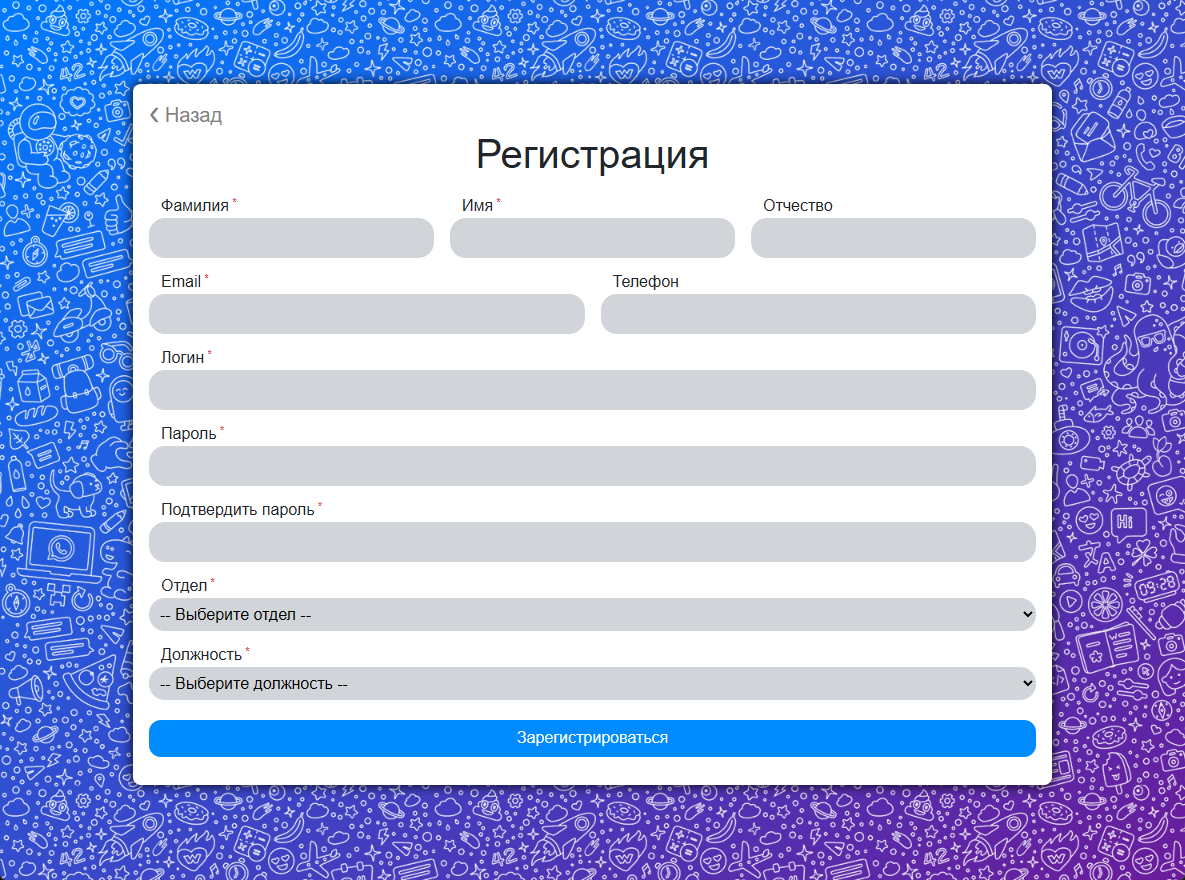
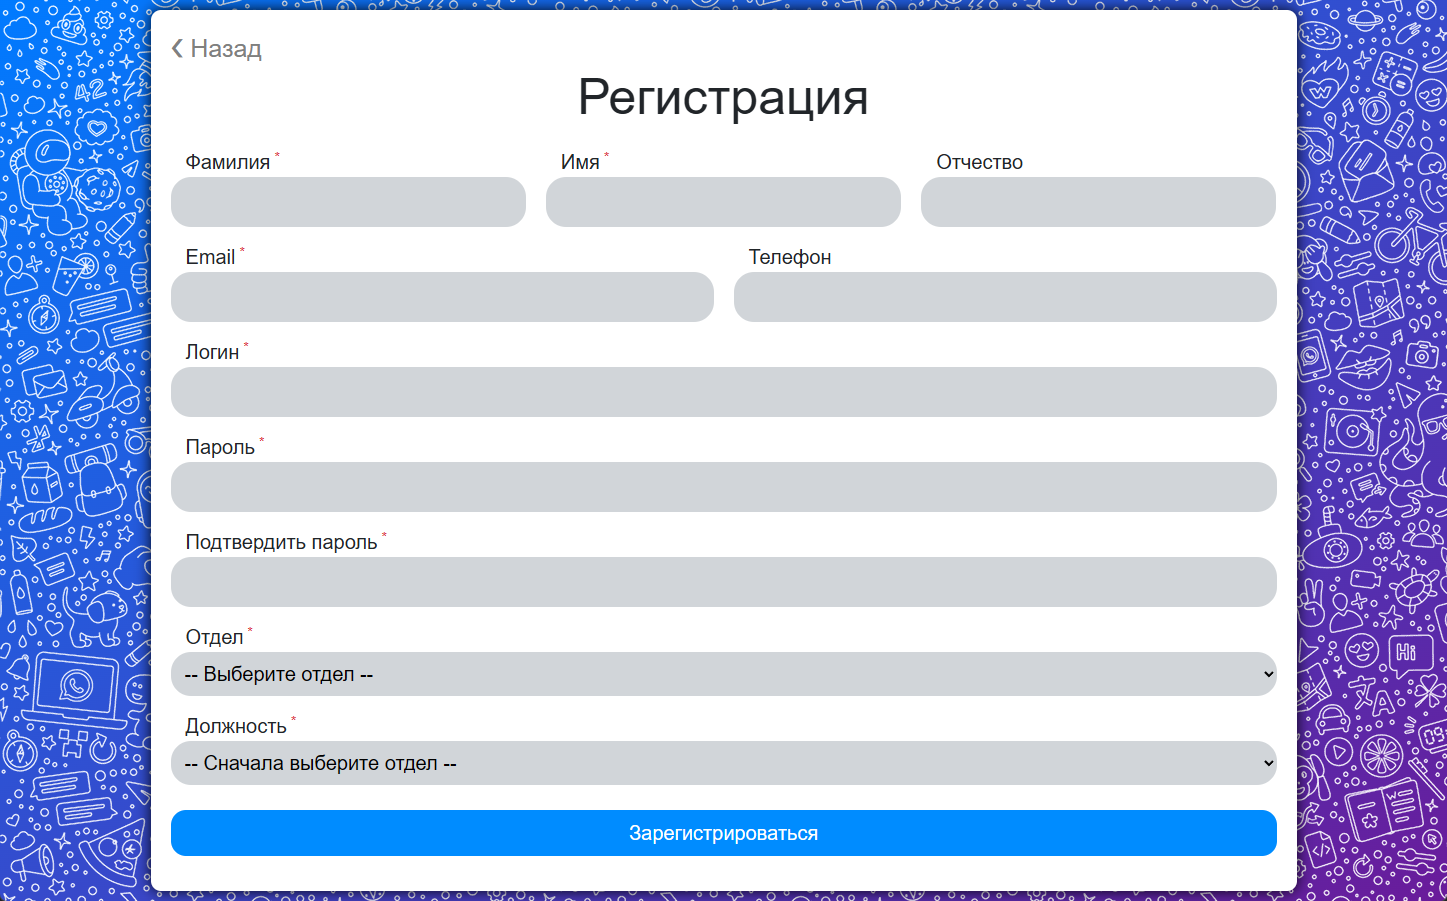
Added the ability to select a position depending on the department

diff --git a/CorpNetMessenger/wwwroot/js/auth/register.js b/CorpNetMessenger/wwwroot/js/auth/register.js
@@ -1,0 +1,28 @@
+document.addEventListener("DOMContentLoaded", function () {
+    const departmentSelect = document.getElementById("departmentSelect");
+    const postSelect = document.getElementById("postSelect");
+
+    departmentSelect.addEventListener("change", async function () {
+        const departmentId = this.value;
+
+        postSelect.innerHTML = '<option value="">-- Выберите должность --</option>';
+
+        if (departmentId) {
+            try {
+                const response = await fetch(
+                    `/Auth/GetPostsByDepartment?departmentId=${departmentId}`
+                );
+                const posts = await response.json();
+
+                posts.forEach((post) => {
+                    const option = document.createElement("option");
+                    option.value = post.id;
+                    option.textContent = post.title;
+                    postSelect.appendChild(option);
+                });
+            } catch (error) {
+                console.error("Ошибка при загрузке должностей:", error);
+            }
+        }
+    });
+});

diff --git a/CorpNetMessenger/Infrastructure/Data/Migrations/MessengerContextModelSnapshot.cs b/CorpNetMessenger/Infrastructure/Data/Migrations/MessengerContextModelSnapshot.cs
@@ -52,7 +52,7 @@ namespace CorpNetMessenger.Infrastructure.Data.Migrations
 
                     b.HasIndex("MessageId");
 
-                    b.ToTable("Attachments");
+                    b.ToTable("Attachments", (string)null);
                 });
 
             modelBuilder.Entity("CorpNetMessenger.Domain.Entities.Chat", b =>
@@ -71,7 +71,7 @@ namespace CorpNetMessenger.Infrastructure.Data.Migrations
 
                     b.HasIndex("DepartmentId");
 
-                    b.ToTable("Chats");
+                    b.ToTable("Chats", (string)null);
                 });
 
             modelBuilder.Entity("CorpNetMessenger.Domain.Entities.ChatUser", b =>
@@ -92,7 +92,7 @@ namespace CorpNetMessenger.Infrastructure.Data.Migrations
 
                     b.HasIndex("ChatId");
 
-                    b.ToTable("ChatUsers");
+                    b.ToTable("ChatUsers", (string)null);
                 });
 
             modelBuilder.Entity("CorpNetMessenger.Domain.Entities.Department", b =>
@@ -110,7 +110,7 @@ namespace CorpNetMessenger.Infrastructure.Data.Migrations
 
                     b.HasKey("Id");
 
-                    b.ToTable("Departments");
+                    b.ToTable("Departments", (string)null);
                 });
 
             modelBuilder.Entity("CorpNetMessenger.Domain.Entities.DepartmentPost", b =>
@@ -125,7 +125,7 @@ namespace CorpNetMessenger.Infrastructure.Data.Migrations
 
                     b.HasIndex("PostId");
 
-                    b.ToTable("DepartmentPost");
+                    b.ToTable("DepartmentPost", (string)null);
                 });
 
             modelBuilder.Entity("CorpNetMessenger.Domain.Entities.Message", b =>
@@ -155,7 +155,7 @@ namespace CorpNetMessenger.Infrastructure.Data.Migrations
 
                     b.HasIndex("UserId");
 
-                    b.ToTable("Messages");
+                    b.ToTable("Messages", (string)null);
                 });
 
             modelBuilder.Entity("CorpNetMessenger.Domain.Entities.MessageUser", b =>
@@ -178,7 +178,7 @@ namespace CorpNetMessenger.Infrastructure.Data.Migrations
 
                     b.HasIndex("UserId1");
 
-                    b.ToTable("MessageUsers");
+                    b.ToTable("MessageUsers", (string)null);
                 });
 
             modelBuilder.Entity("CorpNetMessenger.Domain.Entities.Post", b =>
@@ -196,7 +196,7 @@ namespace CorpNetMessenger.Infrastructure.Data.Migrations
 
                     b.HasKey("Id");
 
-                    b.ToTable("Posts");
+                    b.ToTable("Posts", (string)null);
                 });
 
             modelBuilder.Entity("CorpNetMessenger.Domain.Entities.Status", b =>
@@ -214,7 +214,7 @@ namespace CorpNetMessenger.Infrastructure.Data.Migrations
 
                     b.HasKey("Id");
 
-                    b.ToTable("Statuses");
+                    b.ToTable("Statuses", (string)null);
                 });
 
             modelBuilder.Entity("CorpNetMessenger.Domain.Entities.User", b =>

diff --git a/CorpNetMessenger/Web/Controllers/AuthController.cs b/CorpNetMessenger/Web/Controllers/AuthController.cs
@@ -103,28 +103,31 @@ namespace CorpNetMessenger.Web.Controllers
             return RedirectToAction("Index", "Home");
         }
 
+        [HttpGet]
+        public async Task<IActionResult> GetPostsByDepartment(int departmentId)
+        {
+            var posts = await _cache.GetOrCreateAsync($"posts_by_{departmentId}", async entry =>
+            {
+                entry.AbsoluteExpiration = DateTime.Now.AddHours(6);
+                var posts = await _unitOfWork.Posts.GetByDepartmentIdAsync(departmentId);
+                return posts.Select(p => new { Id = p.Post.Id, Title = p.Post.Title});
+            });
+            return Json(posts);
+        }
+
         private async Task LoadSelectLists()
         {
-            var departments = await _cache.GetOrCreateAsync("departments", async entry => {
+            var departments = await _cache.GetOrCreateAsync("departments", async entry =>
+            {
                 entry.AbsoluteExpiration = DateTime.Now.AddHours(6);
-                return await _unitOfWork.Departments.GetAllAsync();
-            });
-
-            var posts = await _cache.GetOrCreateAsync("posts", async entry => {
-                entry.AbsoluteExpiration = DateTime.Now.AddHours(6);
-                return await _unitOfWork.Posts.GetAllAsync();
+                var departments = await _unitOfWork.Departments.GetAllAsync();
+                return departments.Select(d => new { Id = d.Id.ToString(), Title = d.Title });
             });
 
             ViewBag.Departments = departments.Select(d => new SelectListItem
             {
-                Value = d.Id.ToString(),
+                Value = d.Id,
                 Text = d.Title
-            }).ToList();
-
-            ViewBag.Posts = posts.Select(p => new SelectListItem
-            {
-                Value = p.Id.ToString(),
-                Text = p.Title
             }).ToList();
         }
 

diff --git a/CorpNetMessenger/Infrastructure/Repositories/UnitOfWork.cs b/CorpNetMessenger/Infrastructure/Repositories/UnitOfWork.cs
@@ -12,7 +12,7 @@ namespace CorpNetMessenger.Infrastructure.Repositories
         private IRepository<Department> _departments;
         private IRepository<Attachment> _files;
         private IMessageRepository _messages;
-        private IRepository<Post> _posts;
+        private IPostRepository _posts;
         private IRepository<Status> _statuses;
         private IUserRepository _users;
         private IChatUserRepository _chatUsers;
@@ -26,7 +26,7 @@ namespace CorpNetMessenger.Infrastructure.Repositories
         public IRepository<Department> Departments => _departments ??= new DepartmentRepository(_context);
         public IRepository<Attachment> Files => _files ??= new AttachmentRepository(_context);
         public IMessageRepository Messages => _messages ??= new MessageRepository(_context);
-        public IRepository<Post> Posts => _posts ??= new PostRepository(_context);
+        public IPostRepository Posts => _posts ??= new PostRepository(_context);
         public IRepository<Status> Statuses => _statuses ??= new StatusRepository(_context);
         public IUserRepository Users => _users ??= new UserRepository(_context);
         public IChatUserRepository ChatUsers => _chatUsers ??= new ChatUserRepository(_context);

diff --git a/CorpNetMessenger/Infrastructure/Repositories/PostRepository.cs b/CorpNetMessenger/Infrastructure/Repositories/PostRepository.cs
@@ -1,12 +1,22 @@
 using CorpNetMessenger.Domain.Entities;
+using CorpNetMessenger.Domain.Interfaces.Repositories;
 using CorpNetMessenger.Infrastructure.Data;
+using Microsoft.EntityFrameworkCore;
 
 namespace CorpNetMessenger.Infrastructure.Repositories
 {
-    internal class PostRepository : Repository<Post>
+    internal class PostRepository : Repository<Post>, IPostRepository
     {
         public PostRepository(MessengerContext context) : base(context)
         {
+        }
+
+        public async Task<IEnumerable<DepartmentPost>> GetByDepartmentIdAsync(int departmentId)
+        {
+            return await _context.DepartmentPost
+                .Include(dp => dp.Post)
+                .Where(dp => dp.DepartmentId == departmentId)
+                .ToListAsync();
         }
     }
 }

diff --git a/CorpNetMessenger/Infrastructure/Data/MessengerContext.cs b/CorpNetMessenger/Infrastructure/Data/MessengerContext.cs
@@ -16,6 +16,7 @@ namespace CorpNetMessenger.Infrastructure.Data
         public virtual DbSet<Status> Statuses { get; set; } = null!;
         public virtual DbSet<User> Users { get; set; } = null!;
         public virtual DbSet<ChatUser> ChatUsers { get; set; } = null!;
+        public virtual DbSet<DepartmentPost> DepartmentPost { get; set; } = null!;
 
         public MessengerContext(DbContextOptions<MessengerContext> options) : base(options)
         {

diff --git a/CorpNetMessenger/Domain/Interfaces/Repositories/IUnitOfWork.cs b/CorpNetMessenger/Domain/Interfaces/Repositories/IUnitOfWork.cs
@@ -8,7 +8,7 @@ namespace CorpNetMessenger.Domain.Interfaces.Repositories
         IRepository<Department> Departments { get; }
         IRepository<Attachment> Files { get; }
         IMessageRepository Messages { get; }
-        IRepository<Post> Posts { get; }
+        IPostRepository Posts { get; }
         IRepository<Status> Statuses { get; }
         IUserRepository Users { get; }
         IChatUserRepository ChatUsers { get; }

diff --git a/CorpNetMessenger/Domain/Interfaces/Repositories/IPostRepository.cs b/CorpNetMessenger/Domain/Interfaces/Repositories/IPostRepository.cs
@@ -1,0 +1,9 @@
+using CorpNetMessenger.Domain.Entities;
+
+namespace CorpNetMessenger.Domain.Interfaces.Repositories
+{
+    public interface IPostRepository : IRepository<Post>
+    {
+        Task<IEnumerable<DepartmentPost>> GetByDepartmentIdAsync(int departmentId);
+    }
+}
